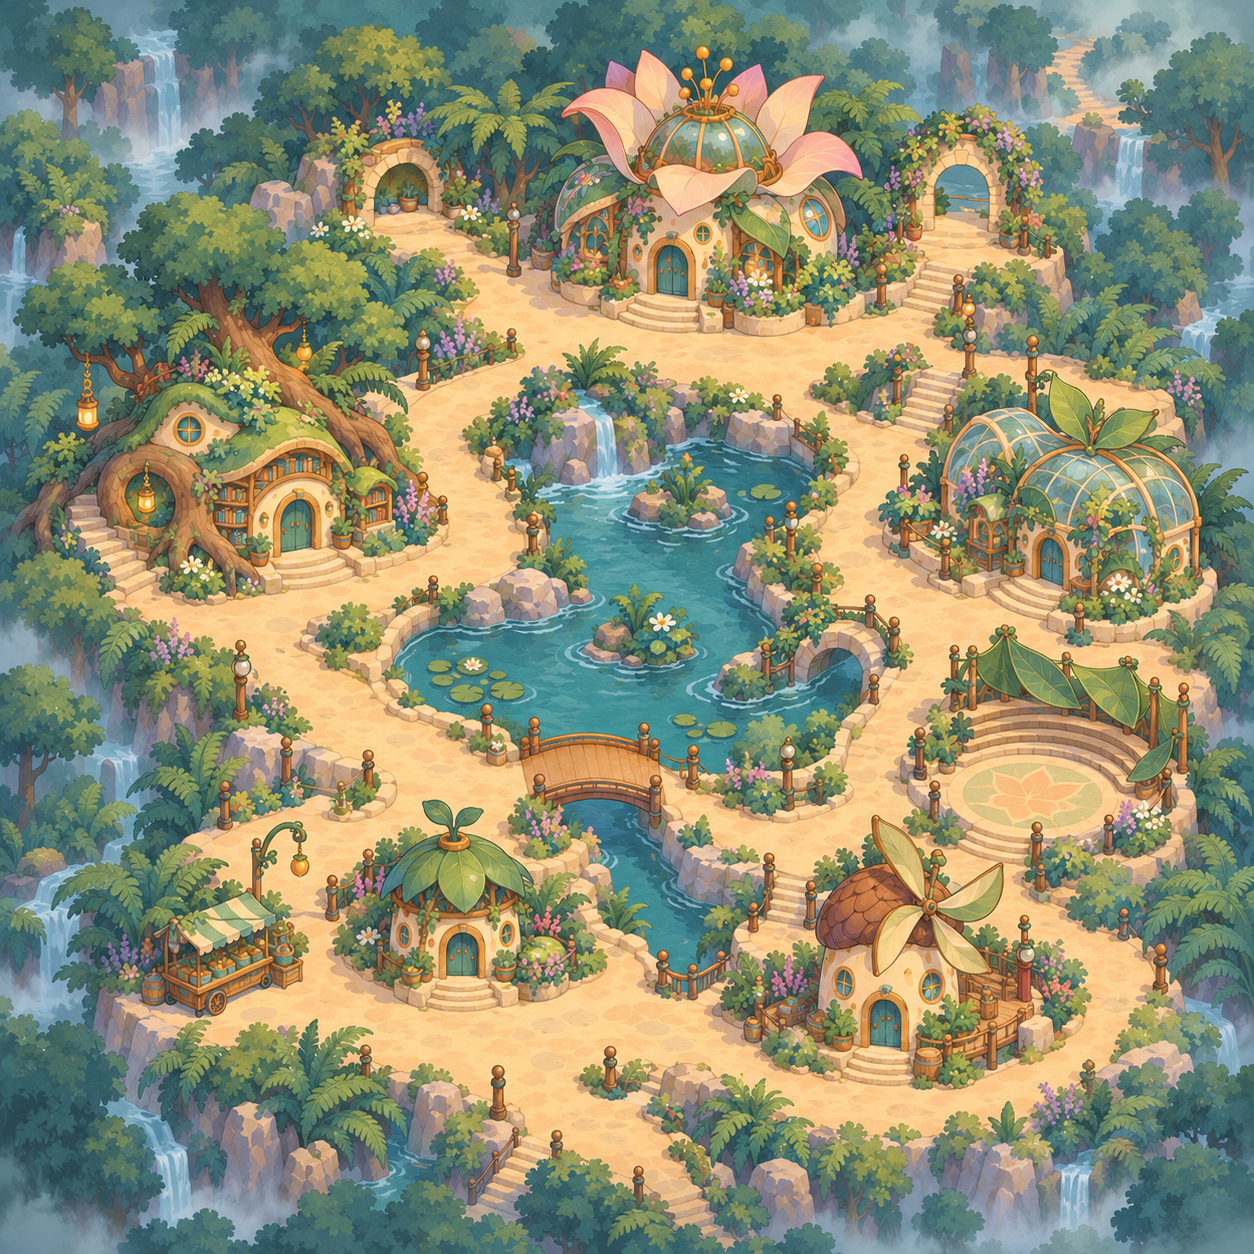
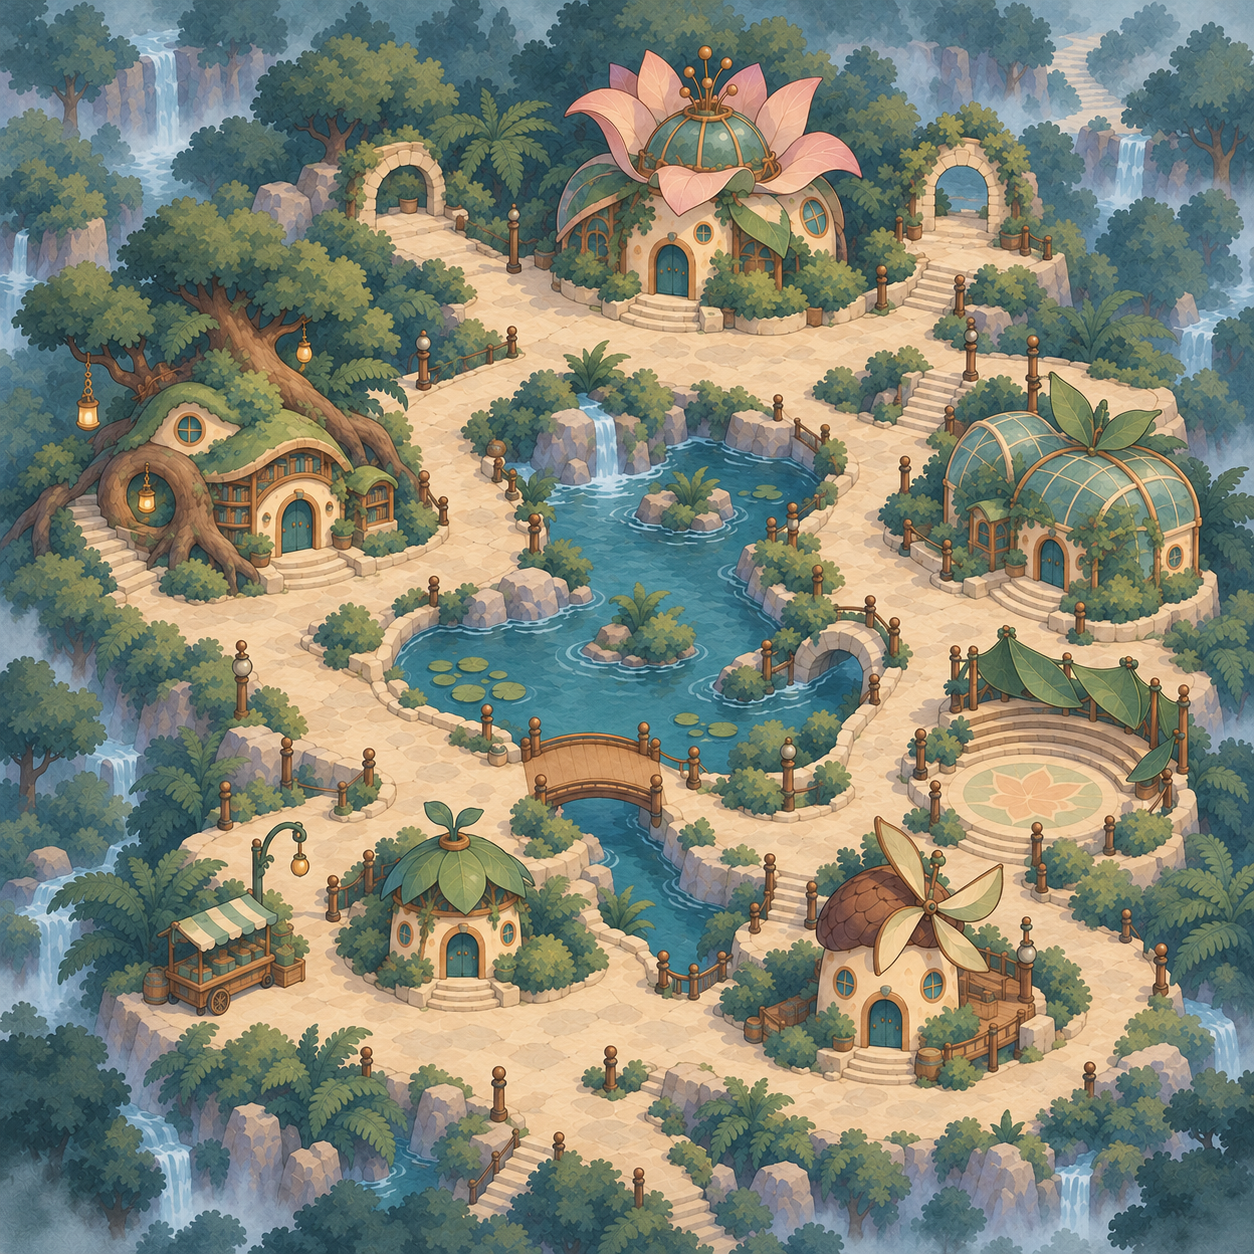
art(overworld): reduce harbor and garden detail and establish repaint review

diff --git a/bubble-boobble/tools/overworld/capture-style-pass.py b/bubble-boobble/tools/overworld/capture-style-pass.py
@@ -1,0 +1,44 @@
+"""Capture a reviewed style-pass candidate inside the actual Game Engine.
+
+Run only after the candidate has passed independent image review and has been
+integrated by the coordinator. Never copies artwork or updates render goldens.
+Records the viewport before stepping: screenshot dimensions alone do not update
+native WorldViewFollow bounds. Starts/stops only the session it owns.
+"""
+from pathlib import Path
+import argparse,json,subprocess,time
+ROOT=Path(__file__).resolve().parents[2]
+parser=argparse.ArgumentParser();parser.add_argument('--district',type=int,default=1);parser.add_argument('--out',default='.gameengine/style-pass');args=parser.parse_args()
+out=ROOT/args.out;out.mkdir(parents=True,exist_ok=True)
+def command(*parts):
+ result=subprocess.run(['gameengine',*map(str,parts),'--json'],cwd=ROOT,capture_output=True,text=True,check=True)
+ return json.loads(result.stdout)
+pid=None
+try:
+ session=command('run','--headless','--paused','--tier','mobile','--scene','scenes/cartoon.scene.json');pid=session['pid']
+ def call(method,params=None):
+  values=['call',method,'--session',pid]
+  if params is not None:values+=['--params',json.dumps(params)]
+  return command(*values)
+ def step(count):return command('step',count,'--session',pid)
+ results={'sessionHost':session.get('host'),'district':args.district,'captures':[]}
+ for label,width,height,insets in [('landscape',1280,720,[0,0,0,0]),('slim',360,880,[0,34,0,24])]:
+  view={'type':'view','width':width,'height':height,'scale':1,'insets':insets}
+  call('input.push',{'events':[view]});step(30)
+  command('cheat','run','overworld.map-preview',f'district={args.district}','facing=1','--session',pid)
+  settled=False
+  for attempt in range(60):
+   time.sleep(.2)
+   step(120);render=call('render.stats',{'render':True,'width':width,'height':height});assets=call('assets.status');stack=call('ui.stack')
+   if assets.get('pending',0)==0 and not any(v.get('layer')=='loading' for v in stack.get('views',[])):
+    settled=True;break
+  if not settled:
+   (out/'loading-failure.json').write_text(json.dumps({'assets':assets,'stack':stack},indent=2)+'\n')
+   raise RuntimeError('Asset/loading cover did not settle; refuse misleading screenshot')
+  camera=command('camera','list','--size',f'{width}x{height}','--session',pid)
+  shot=command('screenshot',out/f'map-{args.district}-{label}.png','--width',width,'--height',height,'--session',pid)
+  results['captures'].append({'recordedViewport':view,'assets':assets,'camera':camera,'shot':shot})
+ (out/f'map-{args.district}-capture.json').write_text(json.dumps(results,indent=2)+'\n')
+ print(json.dumps({'ok':True,'output':str(out),'captures':results['captures']},indent=2))
+finally:
+ if pid is not None:command('session','stop','--session',pid)

diff --git a/bubble-boobble/docs/overworld/STATUS.md b/bubble-boobble/docs/overworld/STATUS.md
@@ -1,6 +1,6 @@
 # Original Adventure overworld status
 
-Status: **original artwork implemented and verified for user playtest**. PR #10 remains draft and unmerged. User playtest and explicit approval are required before merging.
+Status: **artwork in revision against the established courtyard art and supplied guide**. Previous style-compliance and art-readiness claims are superseded. Automated gameplay checks remain evidence for their recorded revision, not visual approval. PR #10 remains draft and unmerged. User playtest and explicit approval are required before merging.
 
 Worktree: `/Users/eduardoleale/.codex/worktrees/walkable-overworld/the-bubble-brigade`
 Project: `bubble-boobble/`
@@ -10,7 +10,7 @@ PR: https://github.com/eduardoa-perez-tactile/the-bubble-brigade/pull/10
 
 ## Current artwork
 
-Five original paintings replace the copied prototype: Bubblebrook Quay, Fernfall Gardens, Pinwheel Fair, Cloudtop Springs and Emberglass Works. The user accepted the first map layout and requested compliance with the Theatrical Cel Adventure guide. Its revision preserves the composition while simplifying texture and using broad painted shapes, restrained world colors and clear playfield contrast. Cuphead supplied visual and interaction research only; no Cuphead raster was passed to generation.
+The five original paintings are being repainted while preserving geography: Bubblebrook Quay, Fernfall Gardens, Pinwheel Fair, Cloudtop Springs and Emberglass Works. The current pass must be compared directly with the established courtyard and the Theatrical Cel Adventure guide. The previous claim of guide compliance was rejected. Composition and navigation stay stable; style and integration require fresh visual review. Cuphead supplied visual and interaction research only; no Cuphead raster was passed to generation.
 
 A new original dragon sheet provides eight angled directions, planted idle and alternating walk contacts. The 24 pose slots are normalized to one foot anchor and derive all ten existing skin palettes. Front/back second contacts mirror their symmetric first contact; six other direction pairs use separately drawn contacts. Guide and vendor use the same oblique character artwork. Idle holds still. See `tools/overworld/OBLIQUE-DRAGON.md`.
 
@@ -22,7 +22,9 @@ All 25 rounds and 55 map interactions retain stable IDs and per-profile saves. W
 
 Adventure supports selected encounter play, retry and entrance return, completion flags, district gates, one-time rewards, hidden coins, guide rewards, optional trials, keepsakes, shortcuts and journal travel. Existing save migration and profile isolation remain. Classic and Bubble Madness are available under Arcade Modes. District and shared sprites load through explicit asset groups; the presentation uses a bounded pool.
 
-## Replacement verification
+## Previous original-art gameplay verification
+
+These results predate the current style pass. They do not establish visual compliance or readiness of the repainted maps. Fresh asset/cooked checks follow replacement integration.
 
 - Full V8 logic suite: **452/452 passed**. The previous copied-reference QA tests were removed and an eight-heading movement/idle test added; compare counts in that context.
 - Original geometry and directional tests: **9/9 passed**. All55 interactions are reachable, all25 encounter return anchors are safe, and actual lighthouse approach/leave/re-approach works.
@@ -40,4 +42,4 @@ Hermes and the Web/WASM host are unavailable, so cross-runtime parity is unverif
 
 ## Handoff rule
 
-Commit and push checkpoints, keep PR draft, and never merge or enable auto-merge before the user's playtest and explicit approval. Thirty-minute screenshot updates are paused at this verified playtest handoff. Playtest instructions are in `PLAYTEST.md`.
+Commit and push checkpoints, keep PR draft, and never merge or enable auto-merge before the user's playtest and explicit approval. The coordinator owns thirty-minute screenshot updates during the active revision. This is not an art-approved playtest handoff. Playtest instructions are in `PLAYTEST.md`.

diff --git a/bubble-boobble/docs/overworld/STYLE-PASS-REVIEW.md b/bubble-boobble/docs/overworld/STYLE-PASS-REVIEW.md
@@ -1,0 +1,27 @@
+# Map painting correction — 26 October 2026
+
+The user rejected the previous style-compliance claim. Originality, gameplay tests and successful rendering did not establish that the paintings matched the art direction. This pass corrects painting treatment while retaining the accepted map geography.
+
+References: the existing original `assets/cartoon/courtyard.png`, the environment and palette pages of the Theatrical Cel Adventure guide, and the established original Brigade dragon. No Cuphead raster is an input to this repaint.
+
+## Visual review criteria
+
+| Previous mismatch | Correction to inspect in the painting and game capture |
+| --- | --- |
+| Dense, uniformly outlined paving and ornament | Broad ground washes, selective broken seams, grouped foliage and fewer small props |
+| Polished miniature materials | Matte painted metal/glass, few tonal masses, restrained glints |
+| Busy water and repeated surface texture | Quiet pooled color, sparse local ripples and readable shores |
+| Similar edge contrast at all depths | Selective distant edge loss and cooler haze, clear middle-ground entrances, stronger near framing |
+| Bright scenery competing with actors | Restrained world colors and highlights; the saturated inked dragon remains the first readable moving subject |
+
+These are visual criteria, not claims that pixel statistics or automated tests can certify artistic compliance. The user retains final art approval.
+
+## Harbor iteration
+
+The first repaint reduced shiny brass, flower clutter and saturation but retained overly regular paving, shiny dome modeling and uniformly busy water. Independent review rejected it as a style master.
+
+The second repaint simplified paving, foliage and material shading enough for provisional engine review. It still needed quieter water and selective distant edge loss.
+
+The third repaint targets those remaining issues. Navigation review found the existing door, bridge, stair and coast anchors remained within roughly 0–3 source pixels; the accepted traversal geometry does not need to change. Gameplay-scale landscape and portrait review is required before propagating its treatment to the other districts.
+
+Prompt history is recorded in `tools/overworld/style-pass-prompts.json`. Prior original plates are retained outside cooked assets under `tools/overworld/original-sources/style-pass-before/`.

diff --git a/bubble-boobble/docs/overworld/PLAYTEST.md b/bubble-boobble/docs/overworld/PLAYTEST.md
@@ -1,6 +1,6 @@
 # Adventure map playtest
 
-**Current build:** five original Brigade maps and an eight-direction oblique dragon replace the copied-art prototype. Use the current branch and captures; prior source-art screenshots are superseded.
+**Artwork readiness pending:** the original maps are undergoing a new style pass against the established courtyard and guide. Prior compliance/readiness claims are superseded. Gameplay instructions below remain useful; wait for the coordinator’s updated captures and handoff before judging this art revision. Automated tests do not certify the visual style.
 
 Open `/Users/eduardoleale/.codex/worktrees/walkable-overworld/the-bubble-brigade/bubble-boobble` in Game Engine and press Play. This is the isolated `codex/walkable-overworld` project; the original checkout is preserved. From the main menu choose **START GAME → BEGIN ADVENTURE**. Later, **CONTINUE ADVENTURE** restores the selected profile’s saved map position and progress. **ARCADE MODES** retains Classic and Bubble Madness.
 

diff --git a/bubble-boobble/docs/overworld/PERFORMANCE.md b/bubble-boobble/docs/overworld/PERFORMANCE.md
@@ -1,6 +1,8 @@
 # Overworld performance review
 
-## Current original-art validation
+## Previous original-art validation
+
+A new map style pass is in progress as of 26 October 2026. The results below describe the previous image bytes; fresh cooked asset-memory/check results will follow integration. These metrics never certify visual style compliance.
 
 Measured 23 October 2026 after replacing all copied map/flag assets with five original district plates, the original completion pennant and 240 original oblique dragon frames. The fresh Android phone-low cook includes both `courtyard-gameplay` and `overworld-shared` pinned for the map phase.
 
